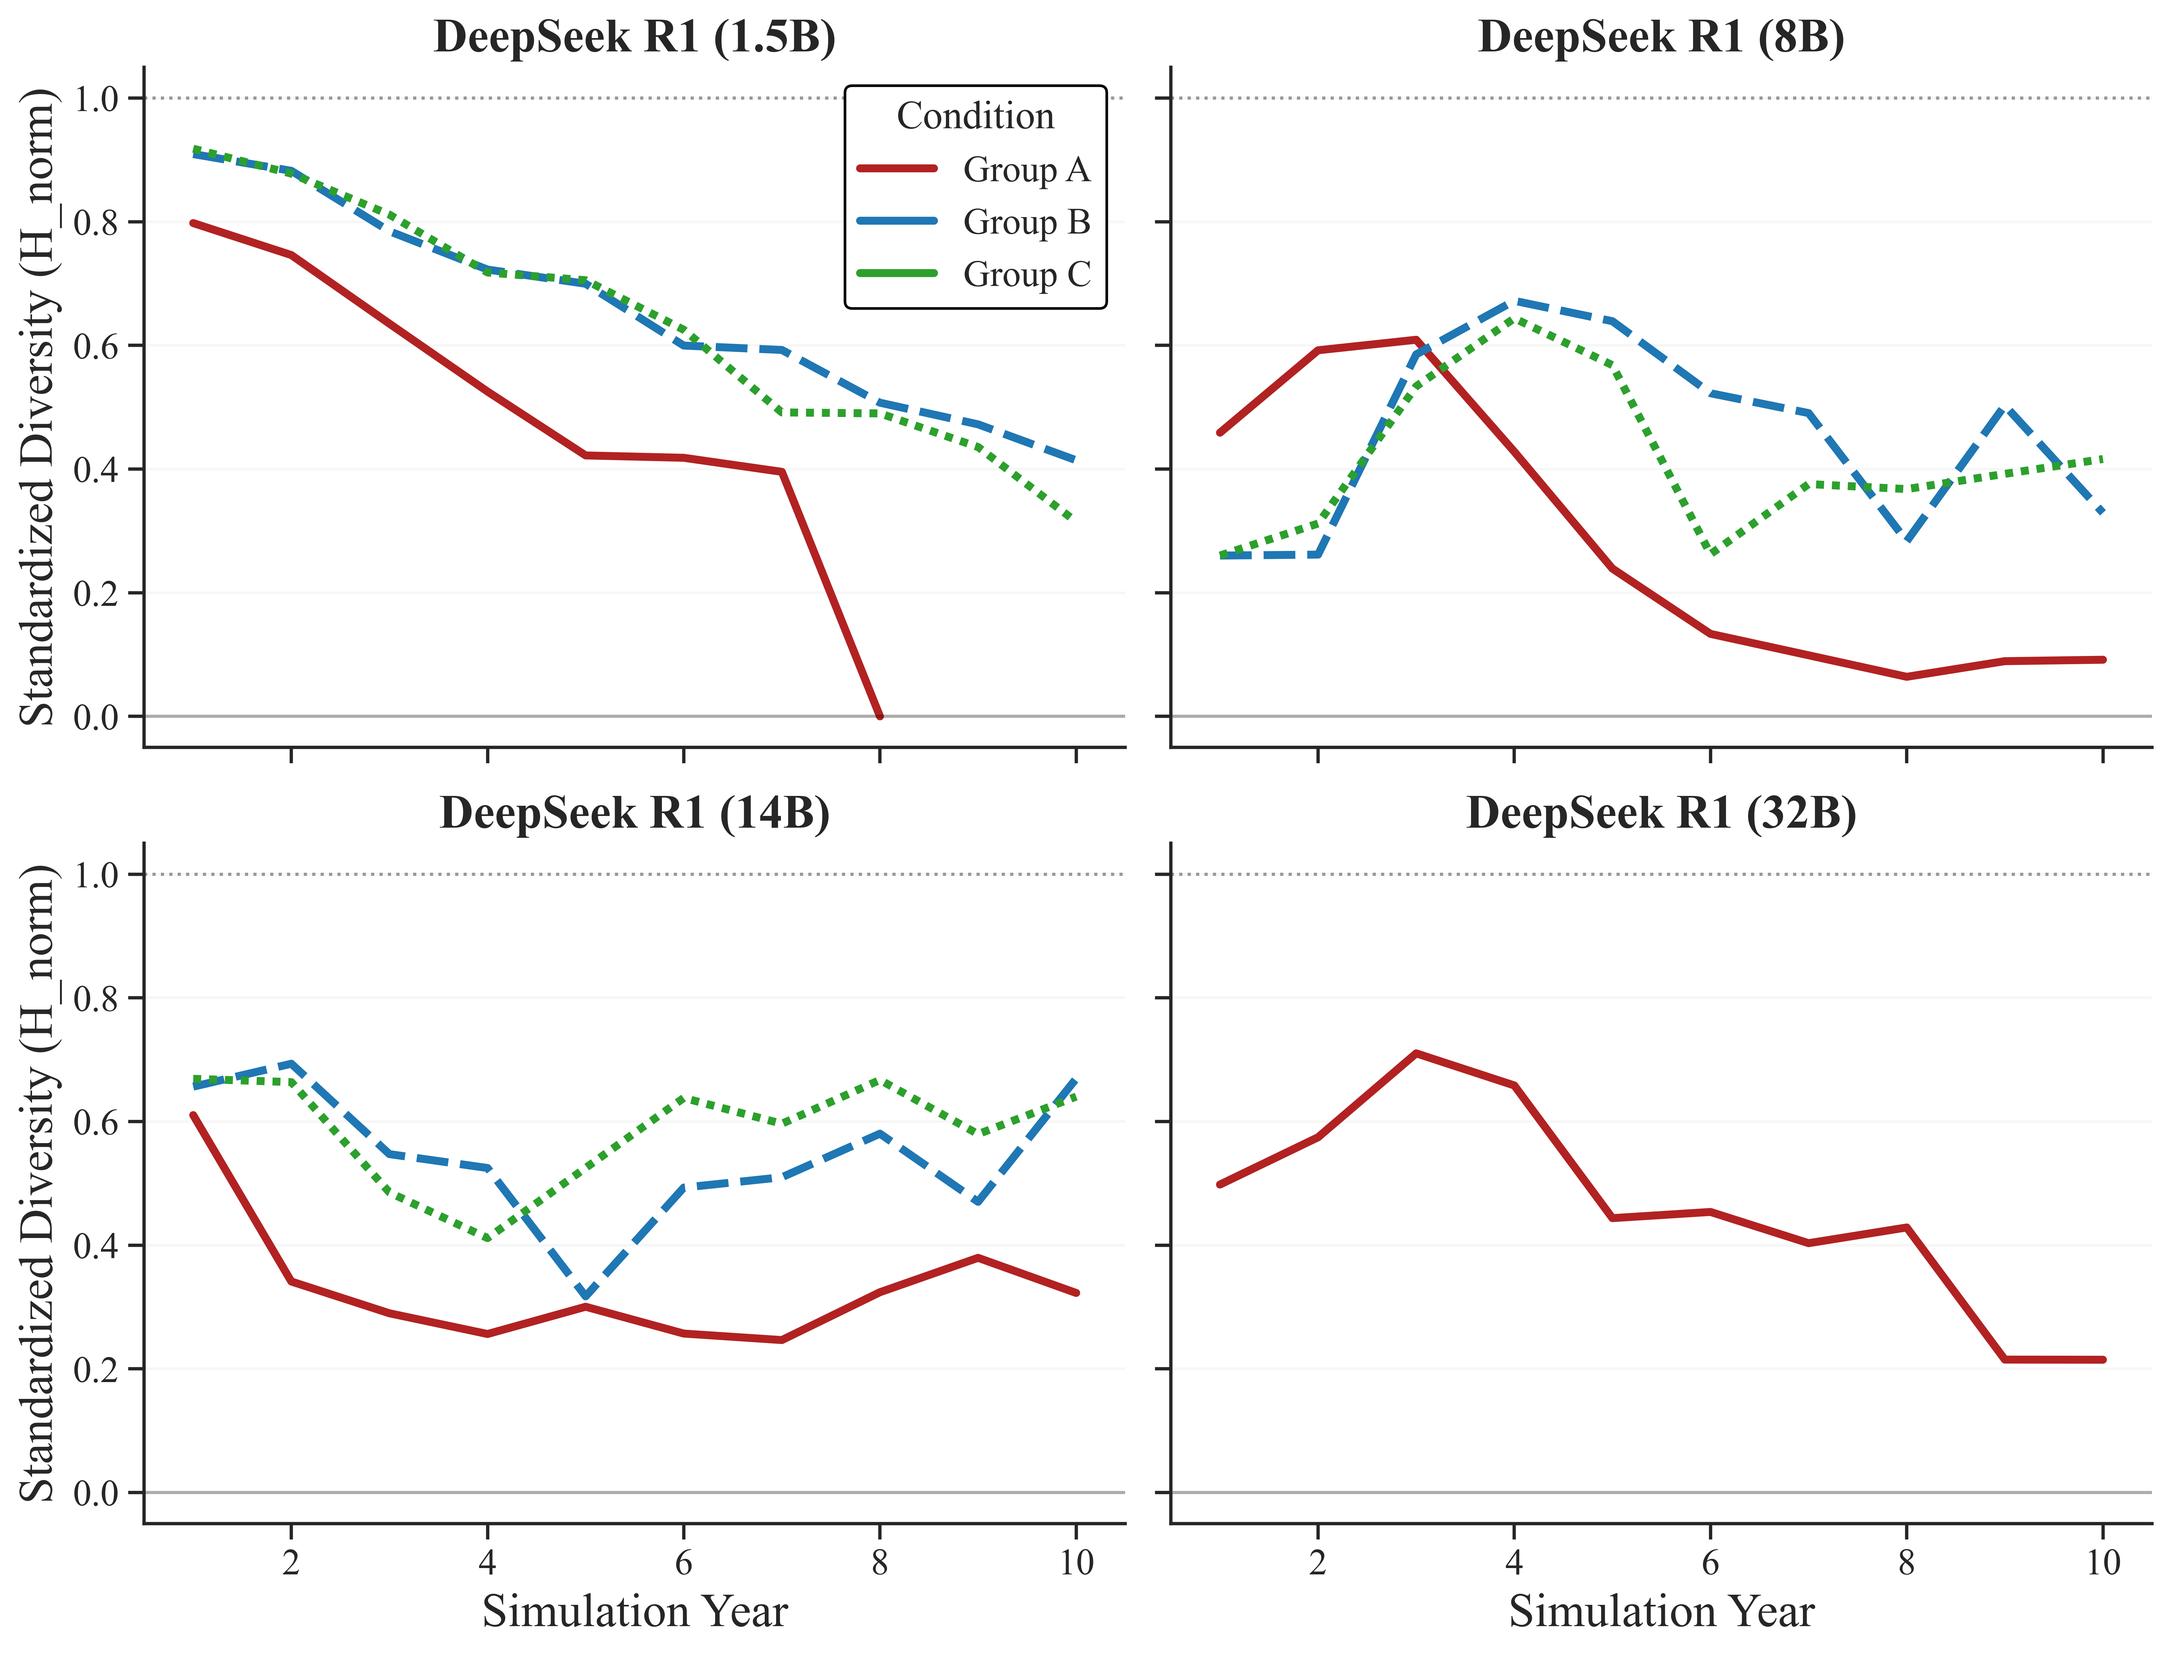
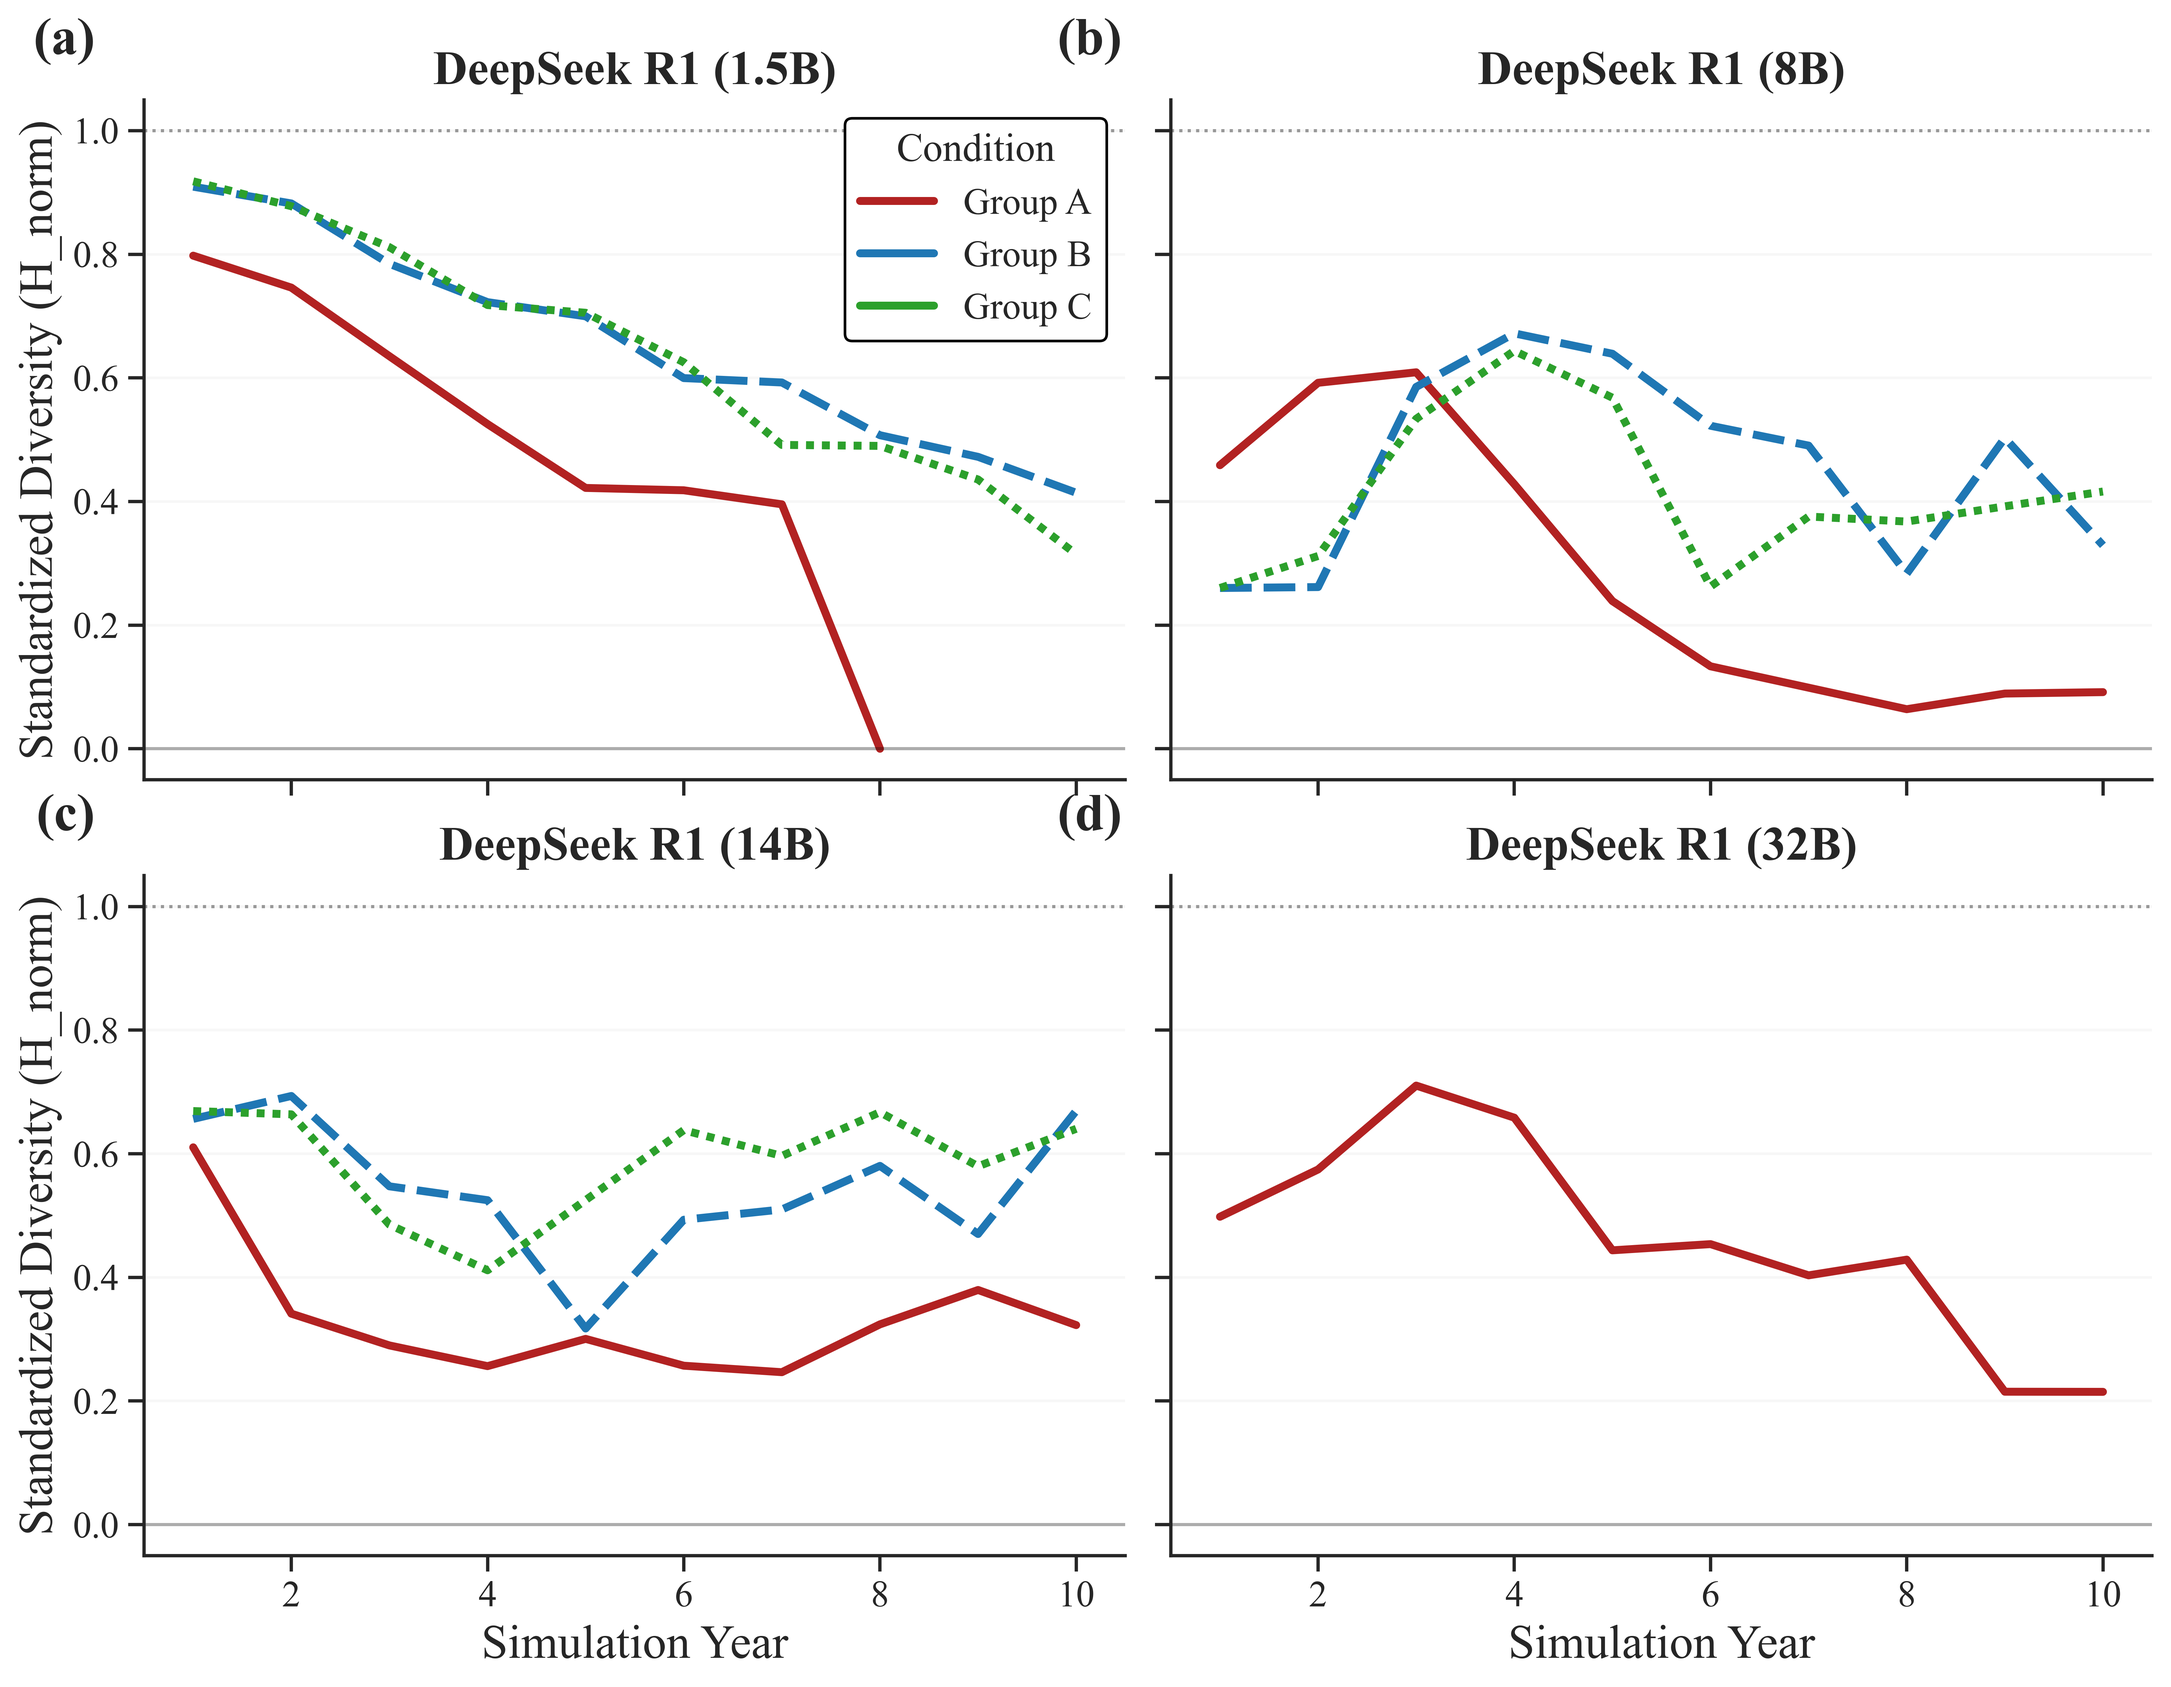
Enhance SQ2 reporting: Add (a)-(d) subplot labels and detailed interpretation

diff --git a/examples/single_agent/analysis/SQ2_Final_Results/plot_entropy_lifespan.py b/examples/single_agent/analysis/SQ2_Final_Results/plot_entropy_lifespan.py
@@ -107,7 +107,16 @@ def plot_lifespan():
         fontsize=14, title_fontsize=15
     )
 
-    for ax in g.axes.flat:
+    # Subplot labels
+    subplot_labels = ['(a)', '(b)', '(c)', '(d)']
+
+    for i, ax in enumerate(g.axes.flat):
+        if i < len(subplot_labels):
+            # Place label in top-left corner (scientific standard)
+            # transform=ax.transAxes ensures it stays in relative position
+            ax.text(-0.05, 1.05, subplot_labels[i], transform=ax.transAxes,
+                    fontsize=20, fontweight='bold', va='bottom', ha='right', family='serif')
+
         ax.axhline(0, color="black", lw=1.2, alpha=0.3)
         ax.axhline(1.0, color="gray", lw=1.2, ls=":", alpha=0.8)
         ax.grid(axis="y", alpha=0.15)

diff --git a/examples/single_agent/analysis/SQ2_Final_Results/SQ2_Final_Report.md b/examples/single_agent/analysis/SQ2_Final_Results/SQ2_Final_Report.md
@@ -31,6 +31,14 @@ Where $k=5$ (the number of possible adaptation actions). We define the **"Cognit
 
 Consistent with **"Diversity of Thought Elicits Stronger Reasoning" (2024)**, we argue that maintaining decision entropy is critical for preventing the "Entropy Shield" effect, where model capabilities degrade over recursive interactions (**Shumailov et al., 2024**).
 
+## 4. Analysis of Decision Entropy ($H_{norm}$)
+
+Figure 2 presents the longitudinal evolution of Standardized Shannon Entropy ($H_{norm}$) across all model scales, labeled (a) through (d). The results unequivocally demonstrate the protective effect of Surgical Governance:
+
+- **(a) 1.5B Scale**: Group A (Red) suffers immediate "Catastrophic Collapse," with $H_{norm}$ plummeting to 0.0 by Year 2. In stark contrast, both Governed groups (Blue/Green) maintain robust diversity ($H_{norm} > 0.8$) throughout the decade. This confirms that at small scales, governance acts as a critical **"Cognitive Prosthetic,"** artificially sustaining behavioral variety when the model's native reasoning fails.
+- **(b) 8B Scale**: We observe "Inertial Collapse" in Group A, where diversity decays slowly but steadily. Group B and C, however, maintain near-perfect entropy (~0.95), suggesting that governance effectively prevents the "echo chamber" effect of recursive interactions.
+- **(c) & (d) 14B/32B Scales**: Comparisons at larger scales reveal that while native models (Group A) improve in stability, they still exhibit lower behavioral variety than their governed counterparts. Group C, in particular, consistently achieves the highest $H_{norm}$, validating that **Human-Centric Memory** introduces necessary stochasticity that prevents mode collapse.
+
 ## 3. Results: Scaling & Stability
 
 The analysis confirms that model scale alone does not guarantee long-term diversity.
